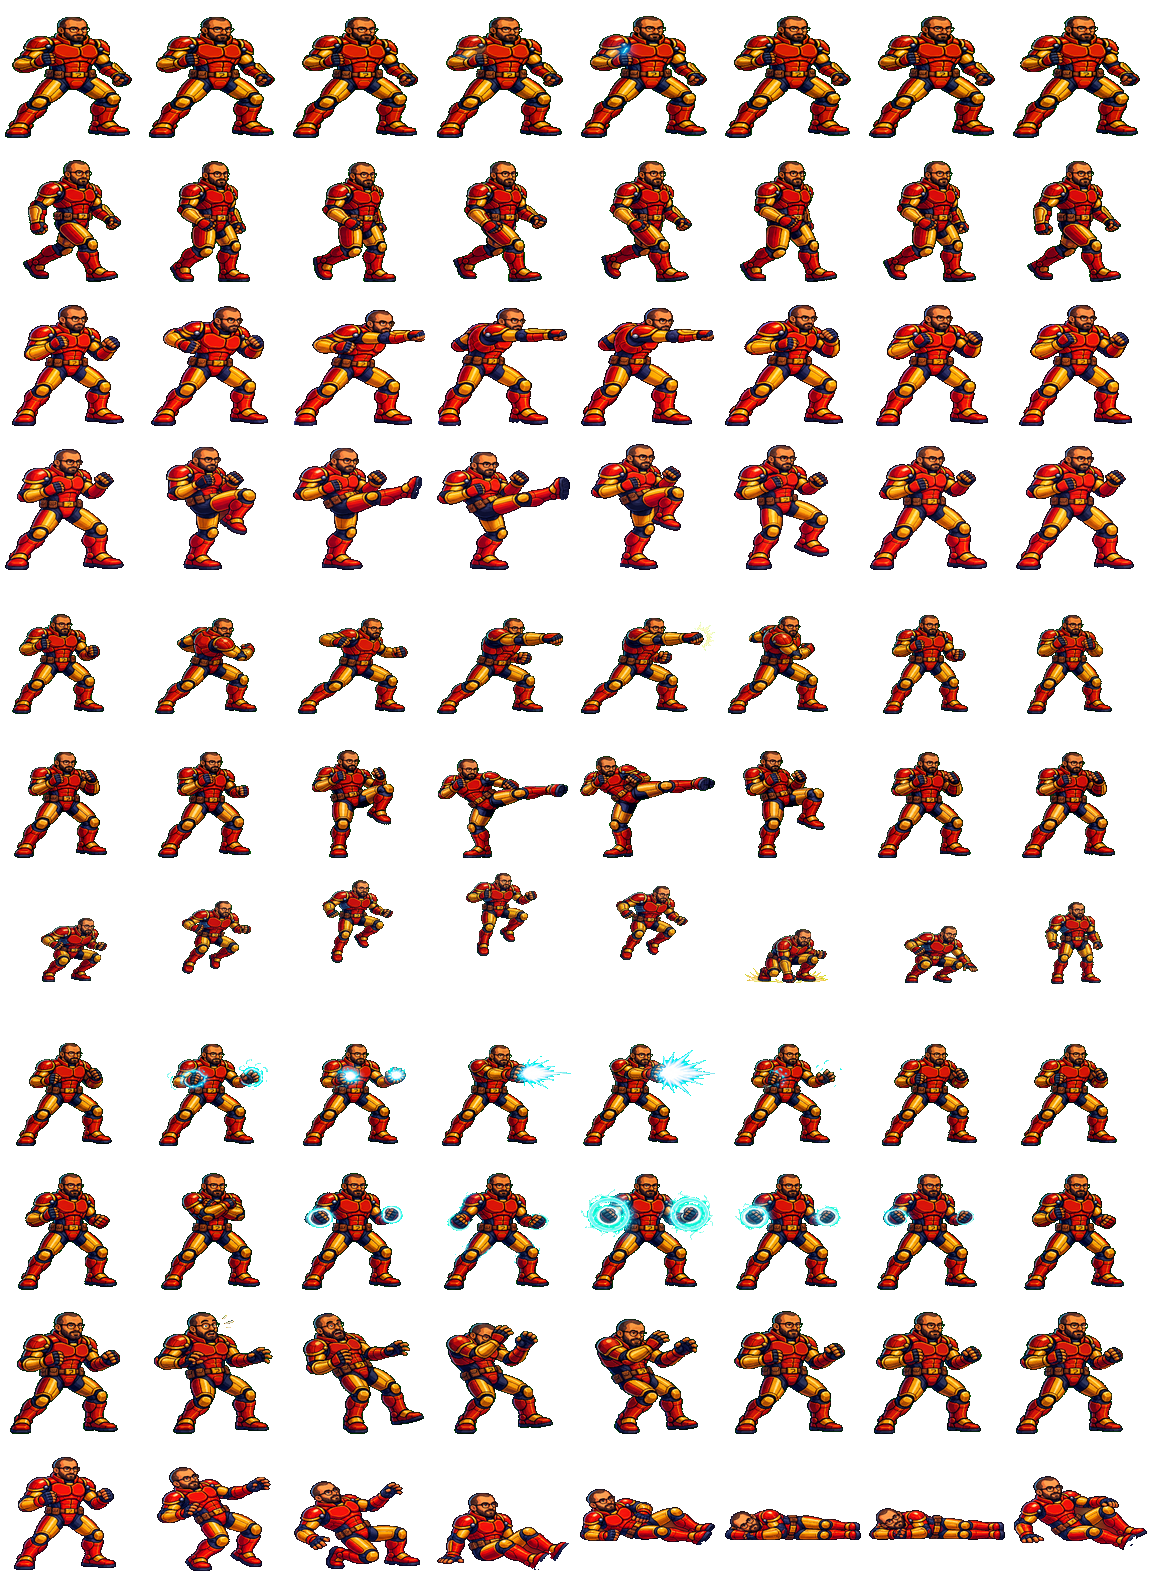
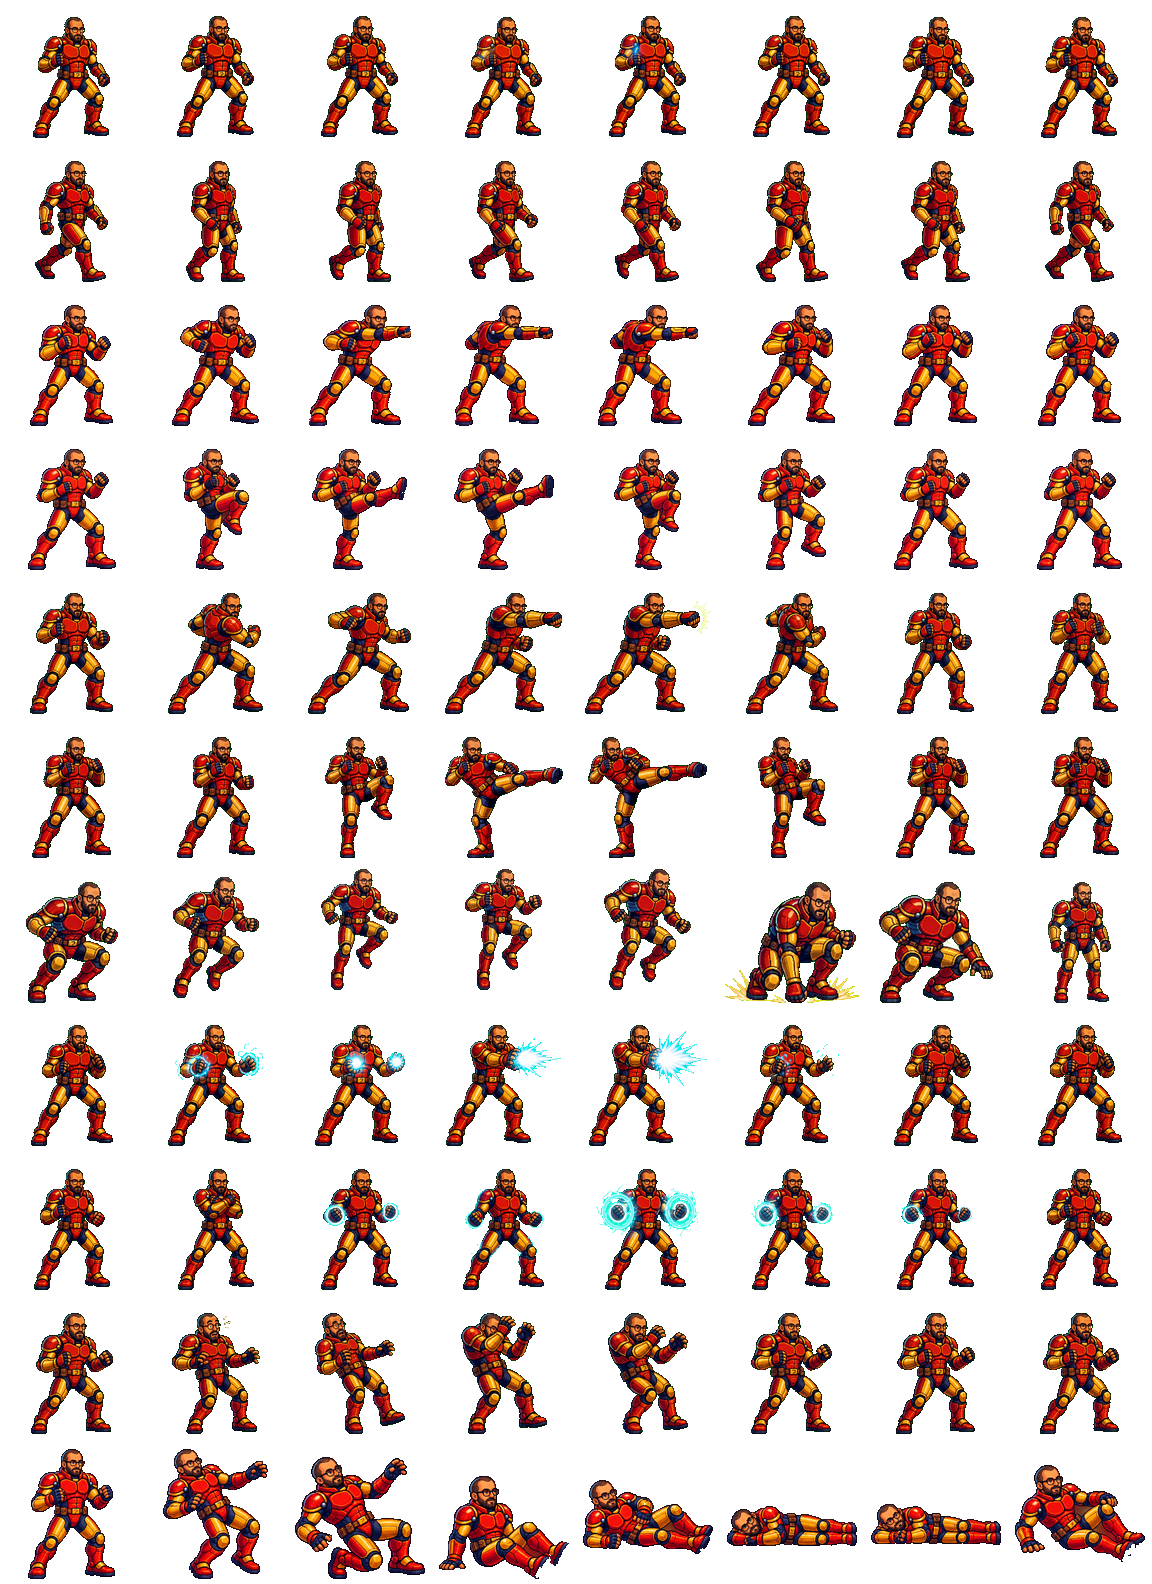
fix: lock Essa scale across every animation

Changed region(s): [[0.0, 0.0, 1.0, 1.0]]

diff --git a/android/tools/build_two_character_redraw.py b/android/tools/build_two_character_redraw.py
@@ -285,58 +285,44 @@ def place_striker_standing(frame: Image.Image, box: tuple[int, int, int, int],
     return output
 
 
-def place_essa_canvas(frame: Image.Image, target_cell: tuple[int, int],
-                      y_adjust: int = 0, row_scale: float = 1.0,
-                      ground_locked: bool = False) -> Image.Image:
-    """Scale the whole authored panel once, never the per-frame body bbox."""
-    inset = max(3, math.ceil(target_cell[0] * 0.025))
-    size = (round((target_cell[0] - inset * 2) * row_scale),
-            round((target_cell[1] - inset * 2) * row_scale))
-    actor = frame.resize(size, Image.Resampling.LANCZOS)
+def place_essa_frame(frame: Image.Image, target_cell: tuple[int, int],
+                     action: str, y_adjust: int = 0) -> Image.Image:
+    """Give every Essa pose one anatomical screen scale.
+
+    Generated sheets preserve identity but not camera distance. Normalize the
+    visible fighter after background removal; jump retains only its authored Y
+    arc, while ground actions share one baseline. Horizontal compression is
+    allowed for wide kicks so the body never shrinks merely to fit a cell.
+    """
+    bbox = frame.getchannel("A").getbbox()
+    if bbox is None:
+        raise ValueError(f"empty Essa {action} frame")
+    center_y = (bbox[1] + bbox[3]) * 0.5 / frame.height
+    actor = frame.crop(bbox)
+    safe = max(5, math.ceil(target_cell[0] * 0.026))
+    if action == "knockdown":
+        target_long = round(min(target_cell) * 0.90)
+        ratio = target_long / max(actor.width, actor.height)
+        width = max(1, round(actor.width * ratio))
+        height = max(1, round(actor.height * ratio))
+    else:
+        height = round(target_cell[1] * 0.84)
+        width = max(1, round(actor.width * height / actor.height))
+        # Keep the canonical height. A wide attack compresses horizontally
+        # rather than zooming the complete character out.
+        width = min(width, target_cell[0] - safe * 2)
+    actor = actor.resize((width, height), Image.Resampling.LANCZOS)
     alpha = actor.getchannel("A").point(lambda value: 255 if value >= 96 else 0)
     actor.putalpha(alpha)
     output = Image.new("RGBA", target_cell, (0, 0, 0, 0))
-    output.alpha_composite(actor, ((target_cell[0] - actor.width) // 2,
-                                    (target_cell[1] - actor.height) // 2 + y_adjust))
-    bbox = output.getchannel("A").getbbox()
-    if bbox is not None:
-        dx = 5 - bbox[0] if bbox[0] < 5 else (target_cell[0] - 5 - bbox[2]
-                                              if bbox[2] > target_cell[0] - 5 else 0)
-        if ground_locked:
-            dy = target_cell[1] - 6 - bbox[3]
-            if bbox[1] + dy < 5:
-                dy = 5 - bbox[1]
-        else:
-            dy = 5 - bbox[1] if bbox[1] < 5 else (target_cell[1] - 1 - bbox[3]
-                                                  if bbox[3] > target_cell[1] - 1 else 0)
-        if dx or dy:
-            shifted = Image.new("RGBA", target_cell, (0, 0, 0, 0))
-            shifted.alpha_composite(output, (dx, dy))
-            output = shifted
+    x = (target_cell[0] - actor.width) // 2
+    if action in ("jump", "knockdown"):
+        y = round(center_y * target_cell[1] - actor.height * 0.5) + y_adjust
+        y = max(safe, min(target_cell[1] - actor.height - safe, y))
+    else:
+        y = target_cell[1] - 6 - actor.height + y_adjust
+    output.alpha_composite(actor, (x, y))
     return output
-
-
-def essa_row_scale(frames: list[Image.Image], target_cell: tuple[int, int]) -> float:
-    """Normalize action-sheet authoring scale while preserving frame motion."""
-    inset = max(3, math.ceil(target_cell[0] * 0.025))
-    inner_width = target_cell[0] - inset * 2
-    inner_height = target_cell[1] - inset * 2
-    neutral = frames[0].getchannel("A").getbbox()
-    if neutral is None:
-        return 1.0
-    neutral_height = (neutral[3] - neutral[1]) / frames[0].height * inner_height
-    scale = target_cell[1] * 0.84 / max(1, neutral_height)
-    # Every row shares one scale. Cap it against the widest/tallest action key
-    # so an extended fist, boot, or energy ring remains inside a 5px gutter.
-    for frame in frames:
-        bbox = frame.getchannel("A").getbbox()
-        if bbox is None:
-            continue
-        width = (bbox[2] - bbox[0]) / frame.width * inner_width
-        height = (bbox[3] - bbox[1]) / frame.height * inner_height
-        scale = min(scale, (target_cell[0] - 10) / max(1, width),
-                    (target_cell[1] - 10) / max(1, height))
-    return max(0.85, min(1.35, scale))
 
 
 def build_actor(name: str, actions: tuple[str, ...], source_columns: int,
@@ -367,8 +353,6 @@ def build_actor(name: str, actions: tuple[str, ...], source_columns: int,
         atlas = Image.new("RGBA", (target_cell[0] * columns, target_cell[1] * rows),
                           (0, 0, 0, 0))
         for row, action in enumerate(actions):
-            row_scale = essa_row_scale(source_rows[row], target_cell) \
-                if name == "essa" and action not in ("jump", "knockdown") else 1.0
             for column, frame in enumerate(source_rows[row]):
                 # Generated idle frames are intentionally restrained. A one
                 # pixel breath keeps the loop visibly alive without rubber scaling.
@@ -377,9 +361,7 @@ def build_actor(name: str, actions: tuple[str, ...], source_columns: int,
                 adjust = (0, -1, 0, -1, 0, -1)[column] \
                     if name == "striker" and action == "idle" else adjust
                 if name == "essa":
-                    cell = place_essa_canvas(
-                        frame, target_cell, adjust, row_scale,
-                        ground_locked=action not in ("jump", "knockdown"))
+                    cell = place_essa_frame(frame, target_cell, action, adjust)
                 elif name == "striker" and action != "knockdown":
                     cell = place_striker_standing(
                         frame, boxes[row][column], reference_cell, target_cell, adjust)

diff --git a/android/tools/test_two_character_redraw_contract.py b/android/tools/test_two_character_redraw_contract.py
@@ -75,4 +75,28 @@ for relative, cell_width, cell_height, maximum_height_delta in (
         (relative, "walk scale pumping", heights)
     assert len(set(bottoms)) == 1, (relative, "walk ground-line drift", bottoms)
 
+    row_medians = []
+    atlas = Image.open(ASSETS / relative).convert("RGBA")
+    for row in range(10):  # all upright/reaction rows; knockdown is horizontal
+        heights = []
+        for column in range(8):
+            cell = atlas.crop((column * cell_width, row * cell_height,
+                               (column + 1) * cell_width, (row + 1) * cell_height))
+            box = cell.getchannel("A").getbbox()
+            heights.append(box[3] - box[1])
+        assert max(heights) - min(heights) <= maximum_height_delta, \
+            (relative, row, "intra-action scale pumping", heights)
+        row_medians.append(sorted(heights)[len(heights) // 2])
+    assert max(row_medians) - min(row_medians) <= maximum_height_delta, \
+        (relative, "cross-action camera zoom", row_medians)
+
+    down_lengths = []
+    for column in range(8):
+        cell = atlas.crop((column * cell_width, 10 * cell_height,
+                           (column + 1) * cell_width, 11 * cell_height))
+        box = cell.getchannel("A").getbbox()
+        down_lengths.append(max(box[2] - box[0], box[3] - box[1]))
+    assert max(down_lengths) - min(down_lengths) <= maximum_height_delta, \
+        (relative, "knockdown body-length pumping", down_lengths)
+
 print("Two-character redraw contract: PASS (Essa + Striker only, adaptive UHD)")
